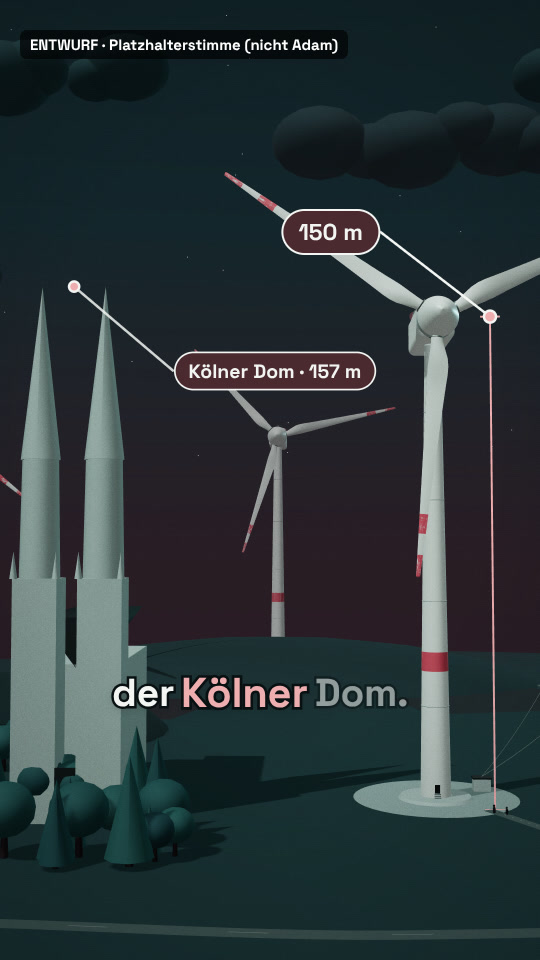
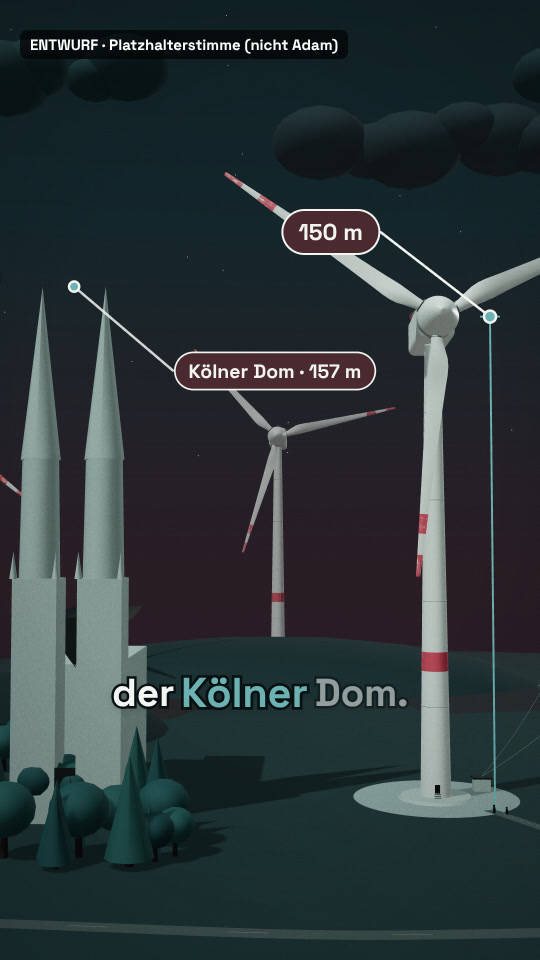
Tuerkis ersetzt Rosa als Akzent
Aktives Wort, Zahlen-Karten, Labels und 3D-Hervorhebung jetzt in Tuerkis #6CB2B3 aus dem
Orchideen-Moodboard. Strom leuchtet weiss-tuerkis, Roentgenkanten salbei, damit sich der
Akzent abhebt. Style-Frames und Doku aktualisiert.

Claude-Session: https://claude.ai/code/session_01J8f6kemwWh83GGPP84HgjS

diff --git a/video/src/kit/theme.ts b/video/src/kit/theme.ts
@@ -64,15 +64,15 @@ export const LOOKS: Record<Look['id'], Look> = {
 		fontCaption: 'Manrope', fontDisplay: 'Fraunces',
 	},
 	// B: Nachtschicht x Orchidee (gewaehlt): dunkle Petrol-Nacht, bordeauxfarbener Horizont, Salbei-Technik,
-	// Altrosa hebt hervor, Strom leuchtet petrol. Palette aus dem Orchideen-Moodboard (kein Orange).
+	// Tuerkis hebt hervor, Strom leuchtet weiss-tuerkis. Palette aus dem Orchideen-Moodboard (kein Orange, kein Rosa).
 	nacht: {
 		id: 'nacht', name: 'Nachtschicht · Orchidee',
 		skyTop: '#081214', skyBottom: '#13262B', fog: '#2A1C24',
 		ground: '#1B3335', groundAlt: '#16292B', earth: '#3A2329', earthDark: '#26161B',
 		tree: '#1F4245', treeAlt: '#29514F',
 		object: '#C9D1CA', objectAlt: '#93A39E', metal: '#7E8F8B', dark: '#121D1F', ink: '#081012',
-		accent: '#EEAEAF', highlight: '#E27886', energy: '#7ED9D6', glass: '#6CB2B3', copper: '#B98078', air: '#8FC9C6', signal: '#C2525F', magnetN: '#C2525F', magnetS: '#509C9F',
-		house: '#4E6264', roof: '#4A292F', window: '#FFE4DE', cloud: '#22383B',
+		accent: '#6CB2B3', highlight: '#6CB2B3', energy: '#E2FFFB', glass: '#C9D1CA', copper: '#A9897A', air: '#8FC9C6', signal: '#C2525F', magnetN: '#C2525F', magnetS: '#509C9F',
+		house: '#4E6264', roof: '#4A292F', window: '#FFF1E0', cloud: '#22383B',
 		text: '#F2F5F2', textDim: '#C9D1CA', cardBg: '#4A292F',
 		flat: false, roughness: 0.62, sun: 2.2, ambient: 0.62, sunColor: '#D6E8E4', hemiSky: '#6CB2B3', hemiGround: '#2A191E',
 		grain: 0.05, vignette: 0.42, glow: true,

diff --git a/docs/design-system.md b/docs/design-system.md
@@ -46,19 +46,18 @@ Die Bibliothek in `kit/parts.tsx` wächst mit jedem Thema (Zahnrad, Rohr, Kabel,
 
 Alle Szenen benutzen nur Farb-Rollen (`ground`, `object`, `accent`, `energy` …). Ein Look ist eine Palette plus Licht und Materialregeln in `video/src/kit/theme.ts`. Ein Look-Wechsel ist ein Parameter, kein neues Rendering-Setup.
 
-**Gewählt: Nachtschicht × Orchidee** (Update 19.10.: kein Orange mehr, Palette aus dem Orchideen-Moodboard)
+**Gewählt: Nachtschicht × Orchidee** (Update 19./20.10.: kein Orange, kein Rosa, Türkis ist der Akzent, Palette aus dem Orchideen-Moodboard)
 
 | Rolle | Farbe | Einsatz |
 |---|---|---|
-| Petrol | `#6CB2B3` | Licht von oben, Glas/Röntgen, Basis für den Strom (`#7ED9D6` leuchtend) |
+| Türkis | `#6CB2B3` | Akzent: aktives Wort, Zahlen, Labels, Hervorhebung in 3D, Höhenmarke |
 | Bordeaux | `#4A292F` | Karten, Dächer, Horizont-Dämmerung (`#2A1C24`) |
-| Altrosa | `#EEAEAF` | Akzent in Untertiteln, Karten, Labels |
-| Rosa kräftig | `#E27886` | Hervorhebung in 3D (Altrosa ist auf Salbei zu blass) |
-| Salbei | `#C9D1CA` | Windrad und Technik, Nebentext |
+| Strom | `#E2FFFB` | Energiefluss, leuchtet weiß-türkis (hebt sich vom türkisen Akzent ab) |
+| Salbei | `#C9D1CA` | Windrad und Technik, Nebentext, Röntgenkanten |
 | Blütenrot | `#C2525F` | Rote Tagesmarkierung (Flügelspitzen, Turmring), Magnet-Nordpol |
 | Nacht | `#081214` → `#13262B` | Himmel (Kuppel mit Sternen), Boden `#1B3335` |
 
-Material/Licht: glatt schattiert, Umgebungsreflexionen (Metall glänzt), Mondlicht + Gegenlicht in Petrol, weiche Schatten, Energie und Fenster leuchten (additiver Schein), Vignette. Schrift: Space Grotesk 700.
+Material/Licht: glatt schattiert, Umgebungsreflexionen (Metall glänzt), Mondlicht + Gegenlicht in Türkis, weiche Schatten, Energie und Fenster leuchten (additiver Schein), Vignette. Schrift: Space Grotesk 700.
 
 Verworfen, aber als Parameter noch vorhanden: Diorama (warm, Orange) und Knete (Pastell).
 
@@ -66,14 +65,14 @@ Style-Frames: `docs/design/styleframes/`.
 
 ## Regeln
 
-- **Ein Akzent pro Moment.** Nur das Teil, über das gerade gesprochen wird, leuchtet rosa. Alles andere bleibt ruhig.
+- **Ein Akzent pro Moment.** Nur das Teil, über das gerade gesprochen wird, leuchtet türkis. Alles andere bleibt ruhig.
 - **Realistisch, aber aufgeräumt.** Echte Bauteile und Details, die man wiedererkennt (Profil-Flügel mit Tagesmarkierung, Planetengetriebe, Bremsscheibe, Hindernisfeuer, Gittermasten), aber keine 40 Schrauben. Proportionen dürfen für die Lesbarkeit übertrieben sein (die Gondel ist ca. 1,5x zu groß).
 - **Tempo.** Kamerafahrten 0,7–1,1 s, jede Einstellung fährt langsam heran (Push-in), Hervorhebungen blenden in 5 Frames ein.
 - **Kamera bewegt sich immer.** Leichtes Atmen, Push-in und Orbits, Übergänge mit Ease-in-out. Das Atmen ist periodisch über die Videolänge, damit der Loop nahtlos bleibt.
 - **Größenvergleiche mit Bekanntem.** Kölner Dom, Fußballfeld, Badewanne, ICE.
 - **Figuren ohne Gesicht** (Kapsel + Kugel) für Maßstab und Alltagsbezug.
 - **Safe-Zones 1080×1920:** oben 220 px, unten 420 px, rechts 140 px frei (TikTok-Bedienelemente). Untertitel sitzen knapp über der unteren Zone, Karten unter der oberen.
-- **Untertitel:** 2–4 Wörter, Space Grotesk 700 / 78 px, dunkle Kontur, aktives Wort in Altrosa mit kleinem Pop.
+- **Untertitel:** 2–4 Wörter, Space Grotesk 700 / 78 px, dunkle Kontur, aktives Wort in Türkis mit kleinem Pop.
 - **Loop:** Der Rotor dreht sich so, dass nach der Videolänge genau eine Drittel-Umdrehung erreicht ist. Wolken und Kamera-Atmen sind periodisch. Blinklichter und Autos laufen in einem Takt, der genau in die Videolänge passt. Karte und Kamera stehen im letzten Frame wie im ersten.
 
 ## Sound

diff --git a/docs/konzept.md b/docs/konzept.md
@@ -11,7 +11,7 @@ Vollautomatisierte TikTok-Erklärvideos: 4 Videos am Tag, je 62–75 s, Low-Poly
 | 3 | Kanal | Neuer eigener Kanal |
 | 4 | Name | „Wie funktioniert eigentlich…?“ |
 | 5 | Grundlook | 3D, nach dem ersten Prototyp: **Nachtschicht**, detailreicher und realistischer, schnellere Animationen (Update 19.10.) |
-| 6 | Farben | **Kein Orange.** Palette aus dem Orchideen-Moodboard: Petrol `#6CB2B3`, Bordeaux `#4A292F`, Altrosa `#EEAEAF`, Salbei `#C9D1CA` (Update 19.10.) |
+| 6 | Farben | **Kein Orange, kein Rosa.** Palette aus dem Orchideen-Moodboard: Türkis `#6CB2B3` als Akzent, Bordeaux `#4A292F`, Salbei `#C9D1CA`, Nacht-Petrol (Update 19./20.10.) |
 | 7 | Innenleben | Werkzeugkasten: Schnitt, Röntgen, Explosion je nach Szene |
 | 8 | Figuren | Einfache gesichtslose Figuren |
 | 9 | Untertitel | Wort für Wort, aktives Wort in Akzentfarbe, 2–4 Wörter |
